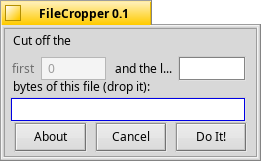
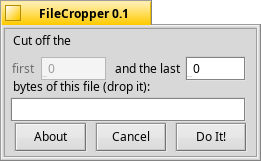
Fixes Issue #2 - text is cropped in the GUI

Changed region(s): [[0.0307, 0.5901, 0.9502, 0.7764], [0.613, 0.3416, 0.7663, 0.4969], [0.1533, 0.4658, 0.1839, 0.4969]]

diff --git a/mainWindow.cpp b/mainWindow.cpp
@@ -42,7 +42,7 @@ mainWindow::mainWindow() : BWindow(BRect(150,100, 400, 226), "FileCropper 0.1", 
 	firstTC->SetDivider(28);
 	lastTC=new BTextControl(BRect((Bounds().Width()-7)-133,27,Bounds().Width()-10,47), "lastTC", "and the last ", "0",NULL, B_FOLLOW_LEFT | B_FOLLOW_TOP);
 	mainView->AddChild(lastTC);
-	lastTC->SetDivider(63);
+	lastTC->SetDivider(70);
 	firstTC->SetEnabled(false);
 	mainView->AddChild(new BStringView(BRect(8,47,Bounds().Width()-7, 67), "stringview1", "bytes of this file (drop it):"));
 
